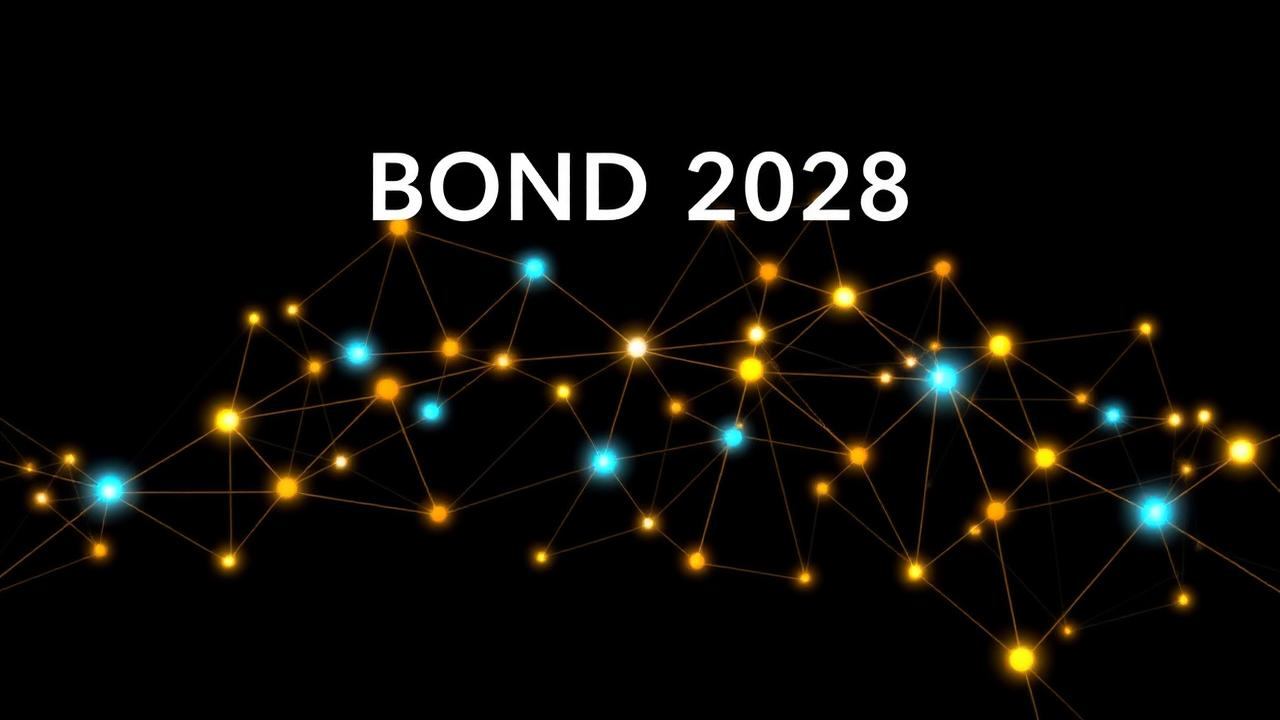
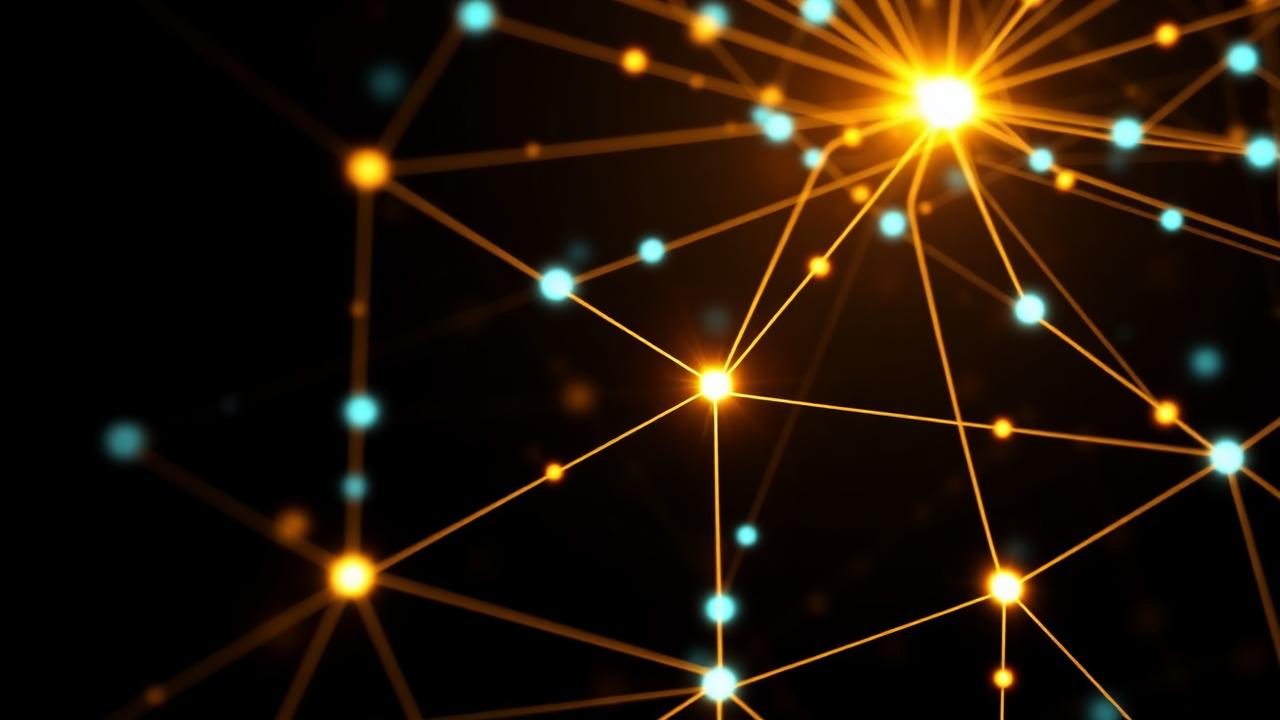
Changes

diff --git a/src/config/hubCovers.ts b/src/config/hubCovers.ts
@@ -1,0 +1,21 @@
+import planen from "@/assets/hub-covers/planen.jpg";
+import optimieren from "@/assets/hub-covers/optimieren.jpg";
+import analysieren from "@/assets/hub-covers/analysieren.jpg";
+import erstellen from "@/assets/hub-covers/erstellen.jpg";
+import team from "@/assets/hub-covers/team.jpg";
+import gaming from "@/assets/hub-covers/gaming.jpg";
+
+/**
+ * Hub-level cover assets in the Bond-2028 aesthetic (deep black + gold + cyan).
+ * Used as the default cover for every card inside a hub. Individual items may
+ * override with their own cover via `HubSubItem.cover`.
+ */
+export const hubCovers: Record<string, string> = {
+  planen,
+  optimieren,
+  analysieren,
+  erstellen,
+  team,
+  gaming,
+  admin: analysieren,
+};
